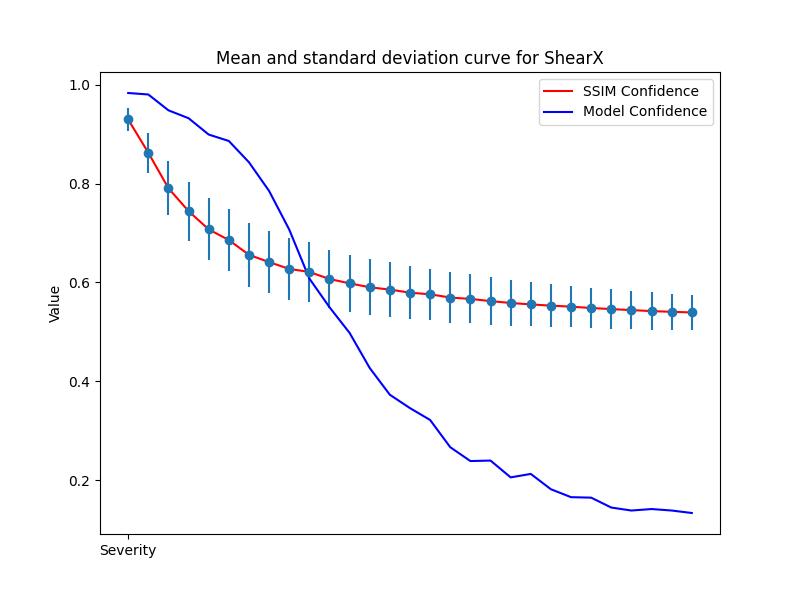
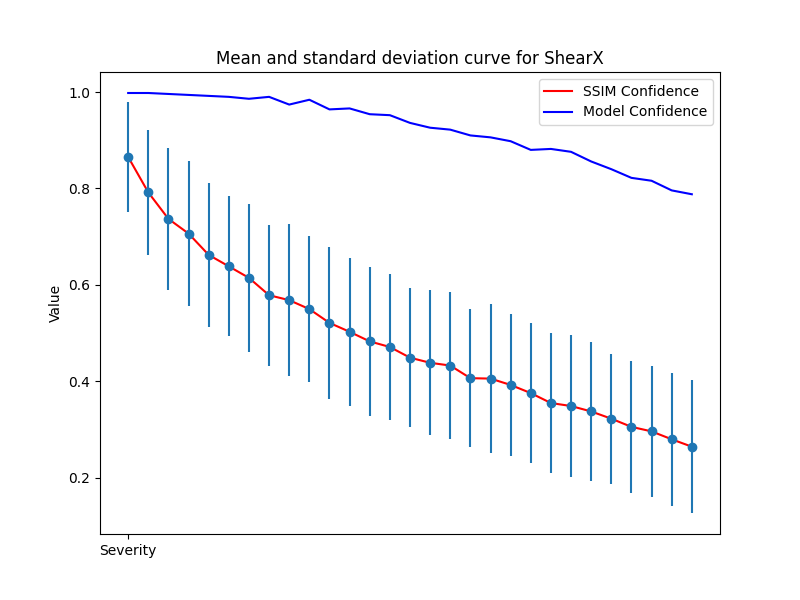
added non linear functions for transX and transY augmentation types

diff --git a/dummy.py b/dummy.py
@@ -7,8 +7,8 @@ preprocess, augmentation = create_transforms(
     random_cropping=False,
     aggressive_augmentation=True,
     custom=True,
-    augmentation_name="Posterize",
-    augmentation_severity=30,
+    augmentation_name="ShearX",
+    augmentation_severity=15,
 )
 
 trainset, _ = load_data(
@@ -19,10 +19,10 @@ trainset, _ = load_data(
 
 trainloader = torch.utils.data.DataLoader(trainset, shuffle=False, batch_size=1)
 
-time_taken = measure_dataloader_time(trainloader)
-print(f"\nTime taken: {time_taken:.3f} seconds.\n")
+# time_taken = measure_dataloader_time(trainloader)
+# print(f"\nTime taken: {time_taken:.3f} seconds.\n")
 
-# images, labels, confidences = next(iter(trainloader))
-# to_pil = transforms.ToPILImage()
-# im_pil = to_pil(images[0])
-# im_pil.save('/home/ekagra/Documents/GitHub/MasterArbeit/example/augmented_image.png')
+images, labels, confidences = next(iter(trainloader))
+to_pil = transforms.ToPILImage()
+im_pil = to_pil(images[0])
+im_pil.save('/home/ekagra/Documents/GitHub/MasterArbeit/example/augmented_image.png')

diff --git a/non_linear_mapping.py b/non_linear_mapping.py
@@ -8,7 +8,7 @@ import time
 
 
 def save_to_csv(mean_list, std_list, accuracy_list, augmentation_type):
-    filename = f"/home/ekagra/Documents/GitHub/MasterArbeit/non_linear_mapping_data/{augmentation_type}_k4_results.csv"
+    filename = f"/home/ekagra/Documents/GitHub/MasterArbeit/non_linear_mapping_data/{augmentation_type}_results.csv"
     with open(filename, mode="w", newline="") as file:
         writer = csv.writer(file)
         writer.writerow(["Severity", "Mean", "Std", "Accuracy"])
@@ -85,10 +85,10 @@ def get_plot(augmentation_type, model, dataset_split=100):
 if __name__ == "__main__":
     augmentation_types = [
         # "Identity",
-        # "ShearX",
+        "ShearX",
         # "ShearY",
         # "TranslateX",
-        "TranslateY",
+        # "TranslateY",
         # "Rotate",
         # "Brightness",
         # "Color",

diff --git a/utils/sift_comparison.py b/utils/sift_comparison.py
@@ -62,7 +62,7 @@ def sift_correction_factor(
 
 if __name__ == "__main__":
     im1_path = "/home/ekagra/Documents/GitHub/MasterArbeit/example/original_image.png"
-    im2_path = "/home/ekagra/Documents/GitHub/MasterArbeit/example/augmented_image_geometric.png"
+    im2_path = "/home/ekagra/Documents/GitHub/MasterArbeit/example/augmented_image.png"
     im1 = Image.open(im1_path)
     im2 = Image.open(im2_path)
     im1_gray = im1.convert("L")

diff --git a/augmentations/trivial_augment.py b/augmentations/trivial_augment.py
@@ -94,5 +94,7 @@ class CustomTrivialAugmentWide:
             )
             k = 3
             confidence_aa = 1 - (1 - self.chance) * (1 - visibility) ** k
+        elif augmentation_type == "ShearX":
+            confidence_aa = sift_correction_factor(original_image=im, augmented_image=augment_im)
         # print(f"\nAugmentation info: {augment_info}\tconf: {confidence_aa}\n")
         return augment_im, confidence_aa
